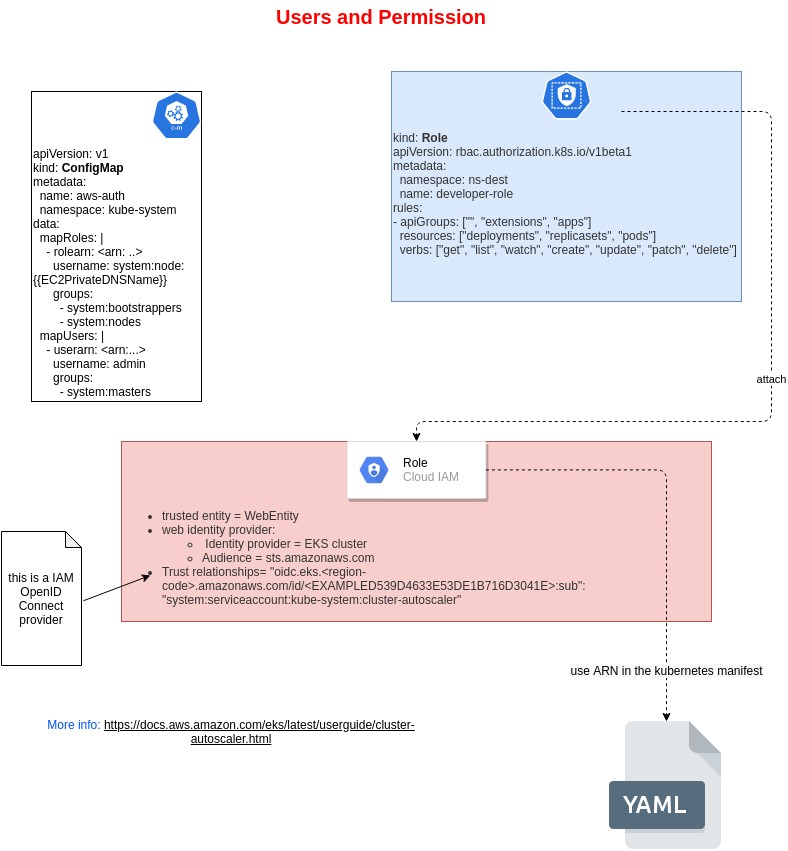
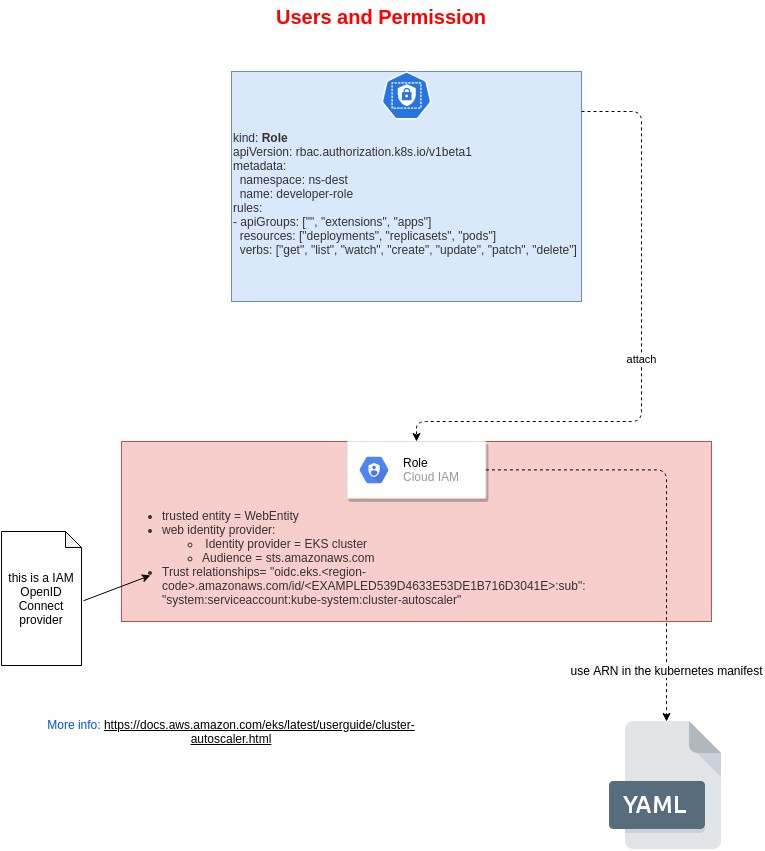
eks - a little refacto

diff --git a/kubernetes/eks/.Secret_Manager_and_Parameter_Store.md b/kubernetes/eks/.Secret_Manager_and_Parameter_Store.md
@@ -1,5 +1,5 @@
 ---
-sort: 1
+sort: 99
 ---
 
 
@@ -7,7 +7,7 @@ sort: 1
 
 more info on AWS:  [link](https://docs.aws.amazon.com/secretsmanager/latest/userguide/integrating_csi_driver.html)
 
-The AWS Secrets and Configuration Provider (ASCP) let to mound data from AWS Secret Manager and AWS Parameter Store info pods.
+The AWS Secrets and Configuration Provider (ASCP) let to mount data from AWS Secret Manager and AWS Parameter Store info pods.
 
 ## Steps:
 
@@ -28,3 +28,5 @@ kubectl apply -f https://raw.githubusercontent.com/aws/secrets-store-csi-driver-
 ```
 
 ### 2 - Set up access control
+
+to be completed

diff --git a/kubernetes/eks/Cluster_autoscaler.md b/kubernetes/eks/Cluster_autoscaler.md
@@ -3,9 +3,12 @@ sort: 1
 ---
 # Cluster Autoscaler
 
+a rapid how-to schema to install and configureautoscaler on AWS / EKS
 ## AWS configuration schema
 
 ![Cluster Autoscaler](./images/clusterautoscaler.jpg)
+
+## Review od some detailsfrom the previous schema
 
 **Prerequisites**
 
@@ -66,4 +69,4 @@ sort: 1
 
 ## Kubernetes Manifest
 
-The ARN role can now be used in the Service Account for the autoscaler.
+The ARN role can now be used in the Service Account for the autoscaler (that need to be installed in the cluster).

diff --git a/kubernetes/eks/Users.md b/kubernetes/eks/Users.md
@@ -29,13 +29,6 @@ data:
 
 ```
 
-## Add permission
-
-You can use predefined roles or create specific roles.
-
-
-
-
-## Schema
+## Add User to service accounts
 
 ![Schema](./images/userandpermissions.jpg)
